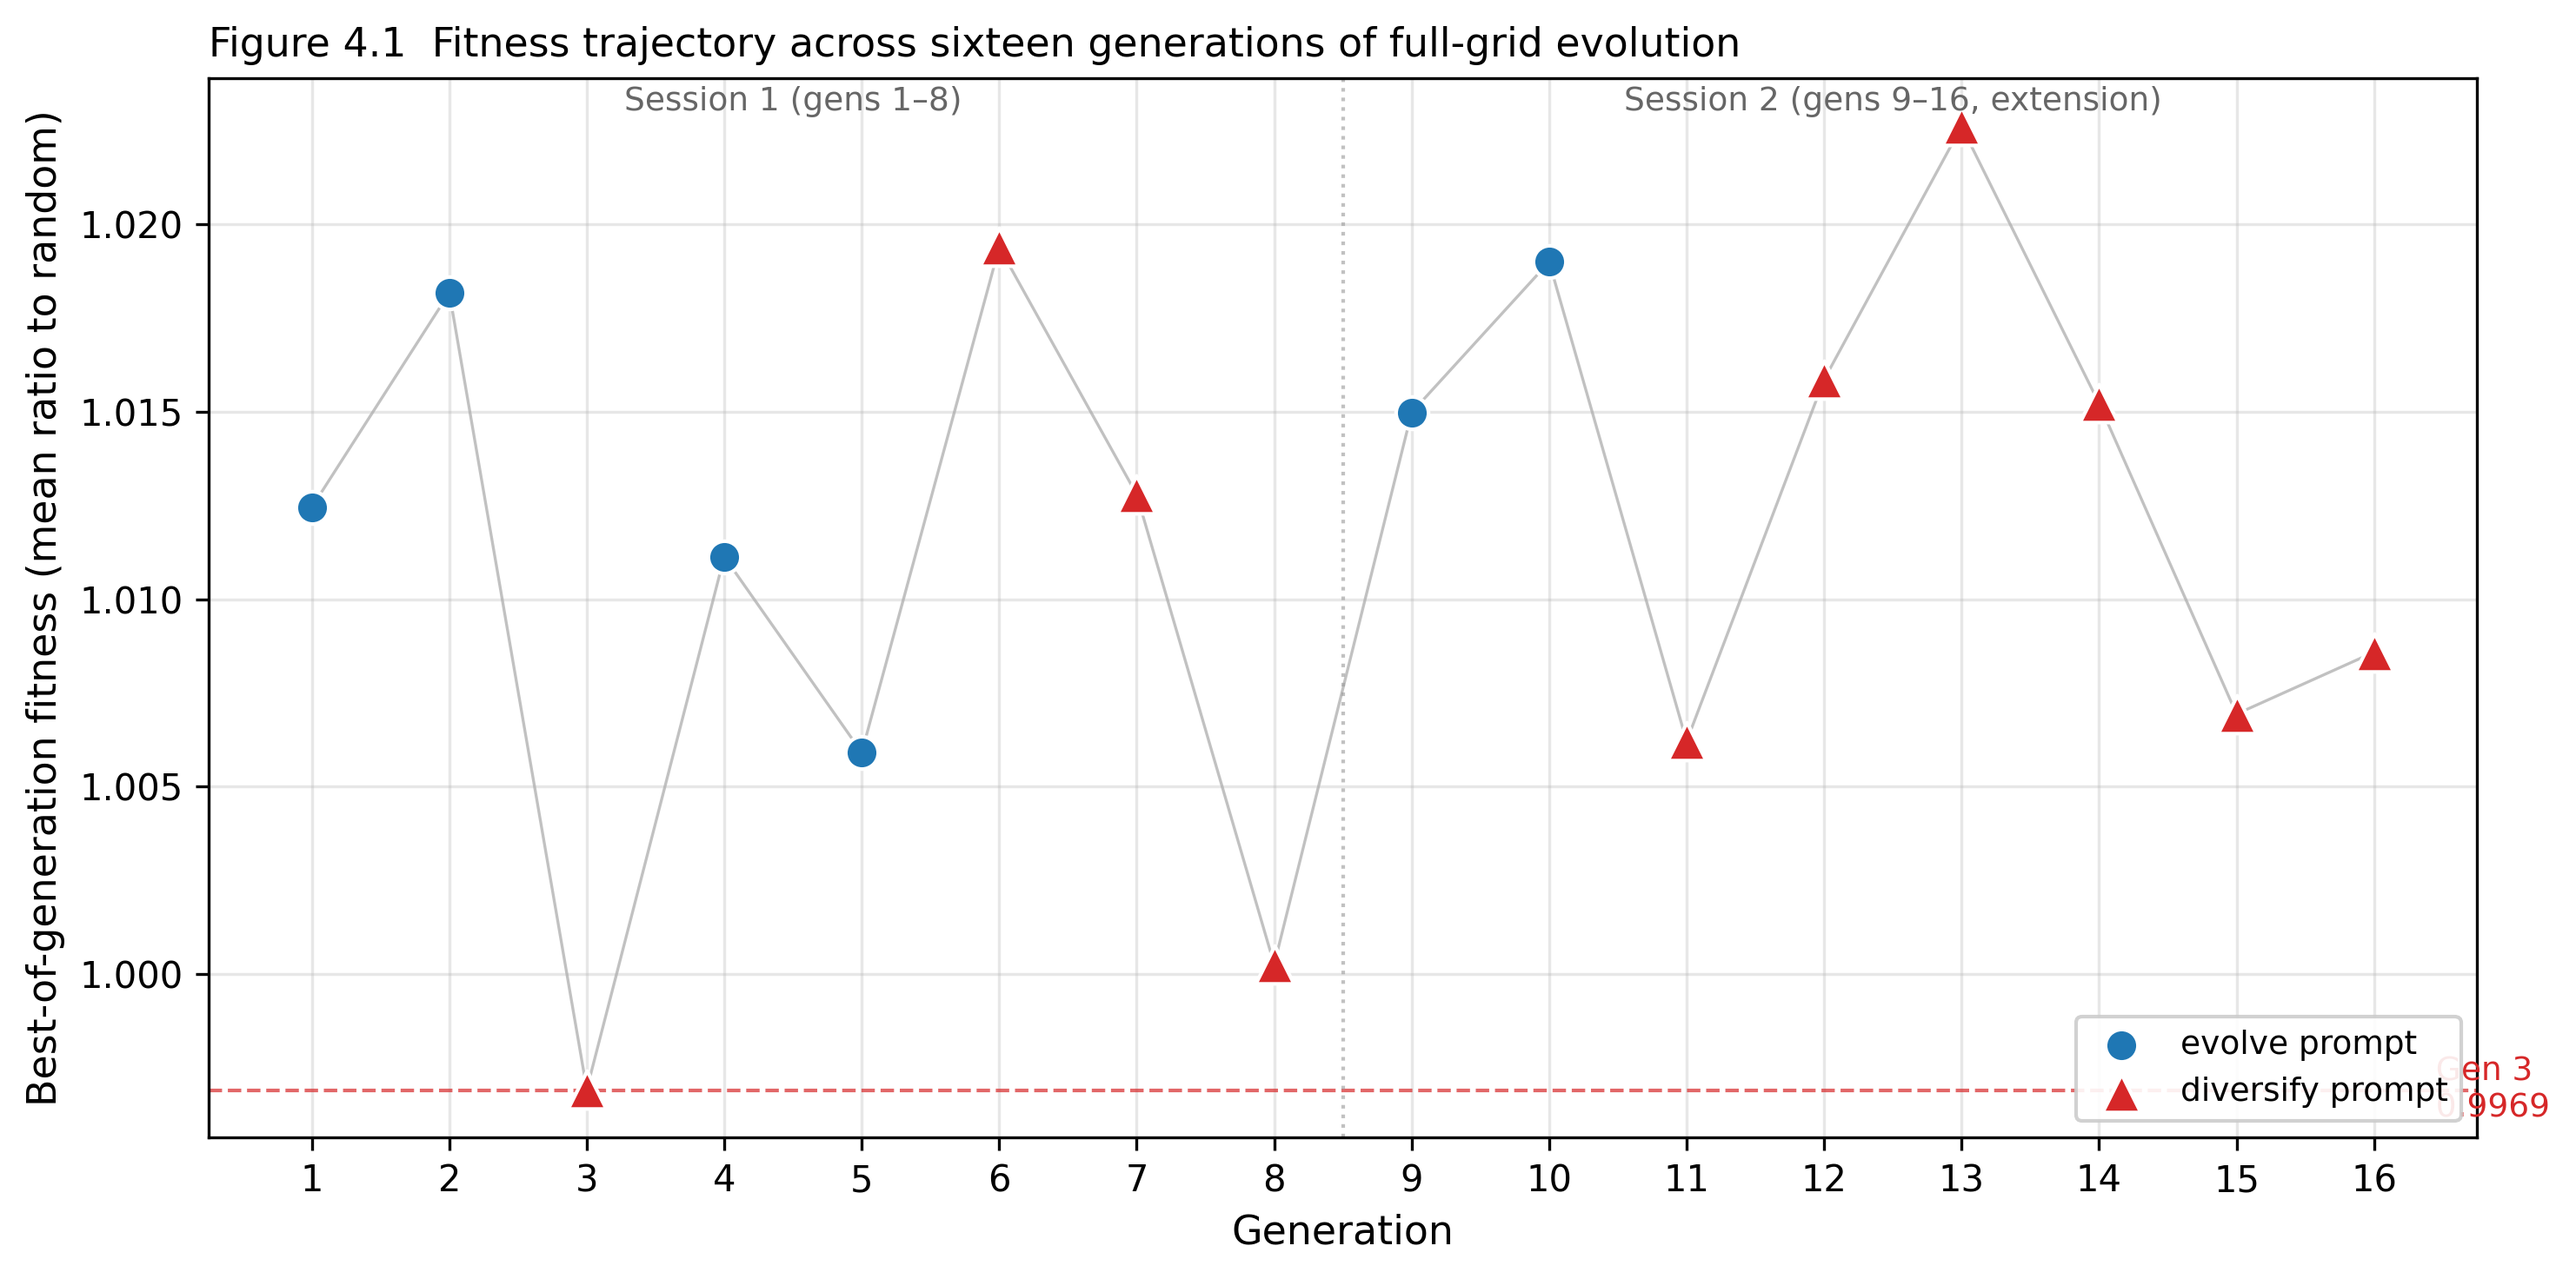
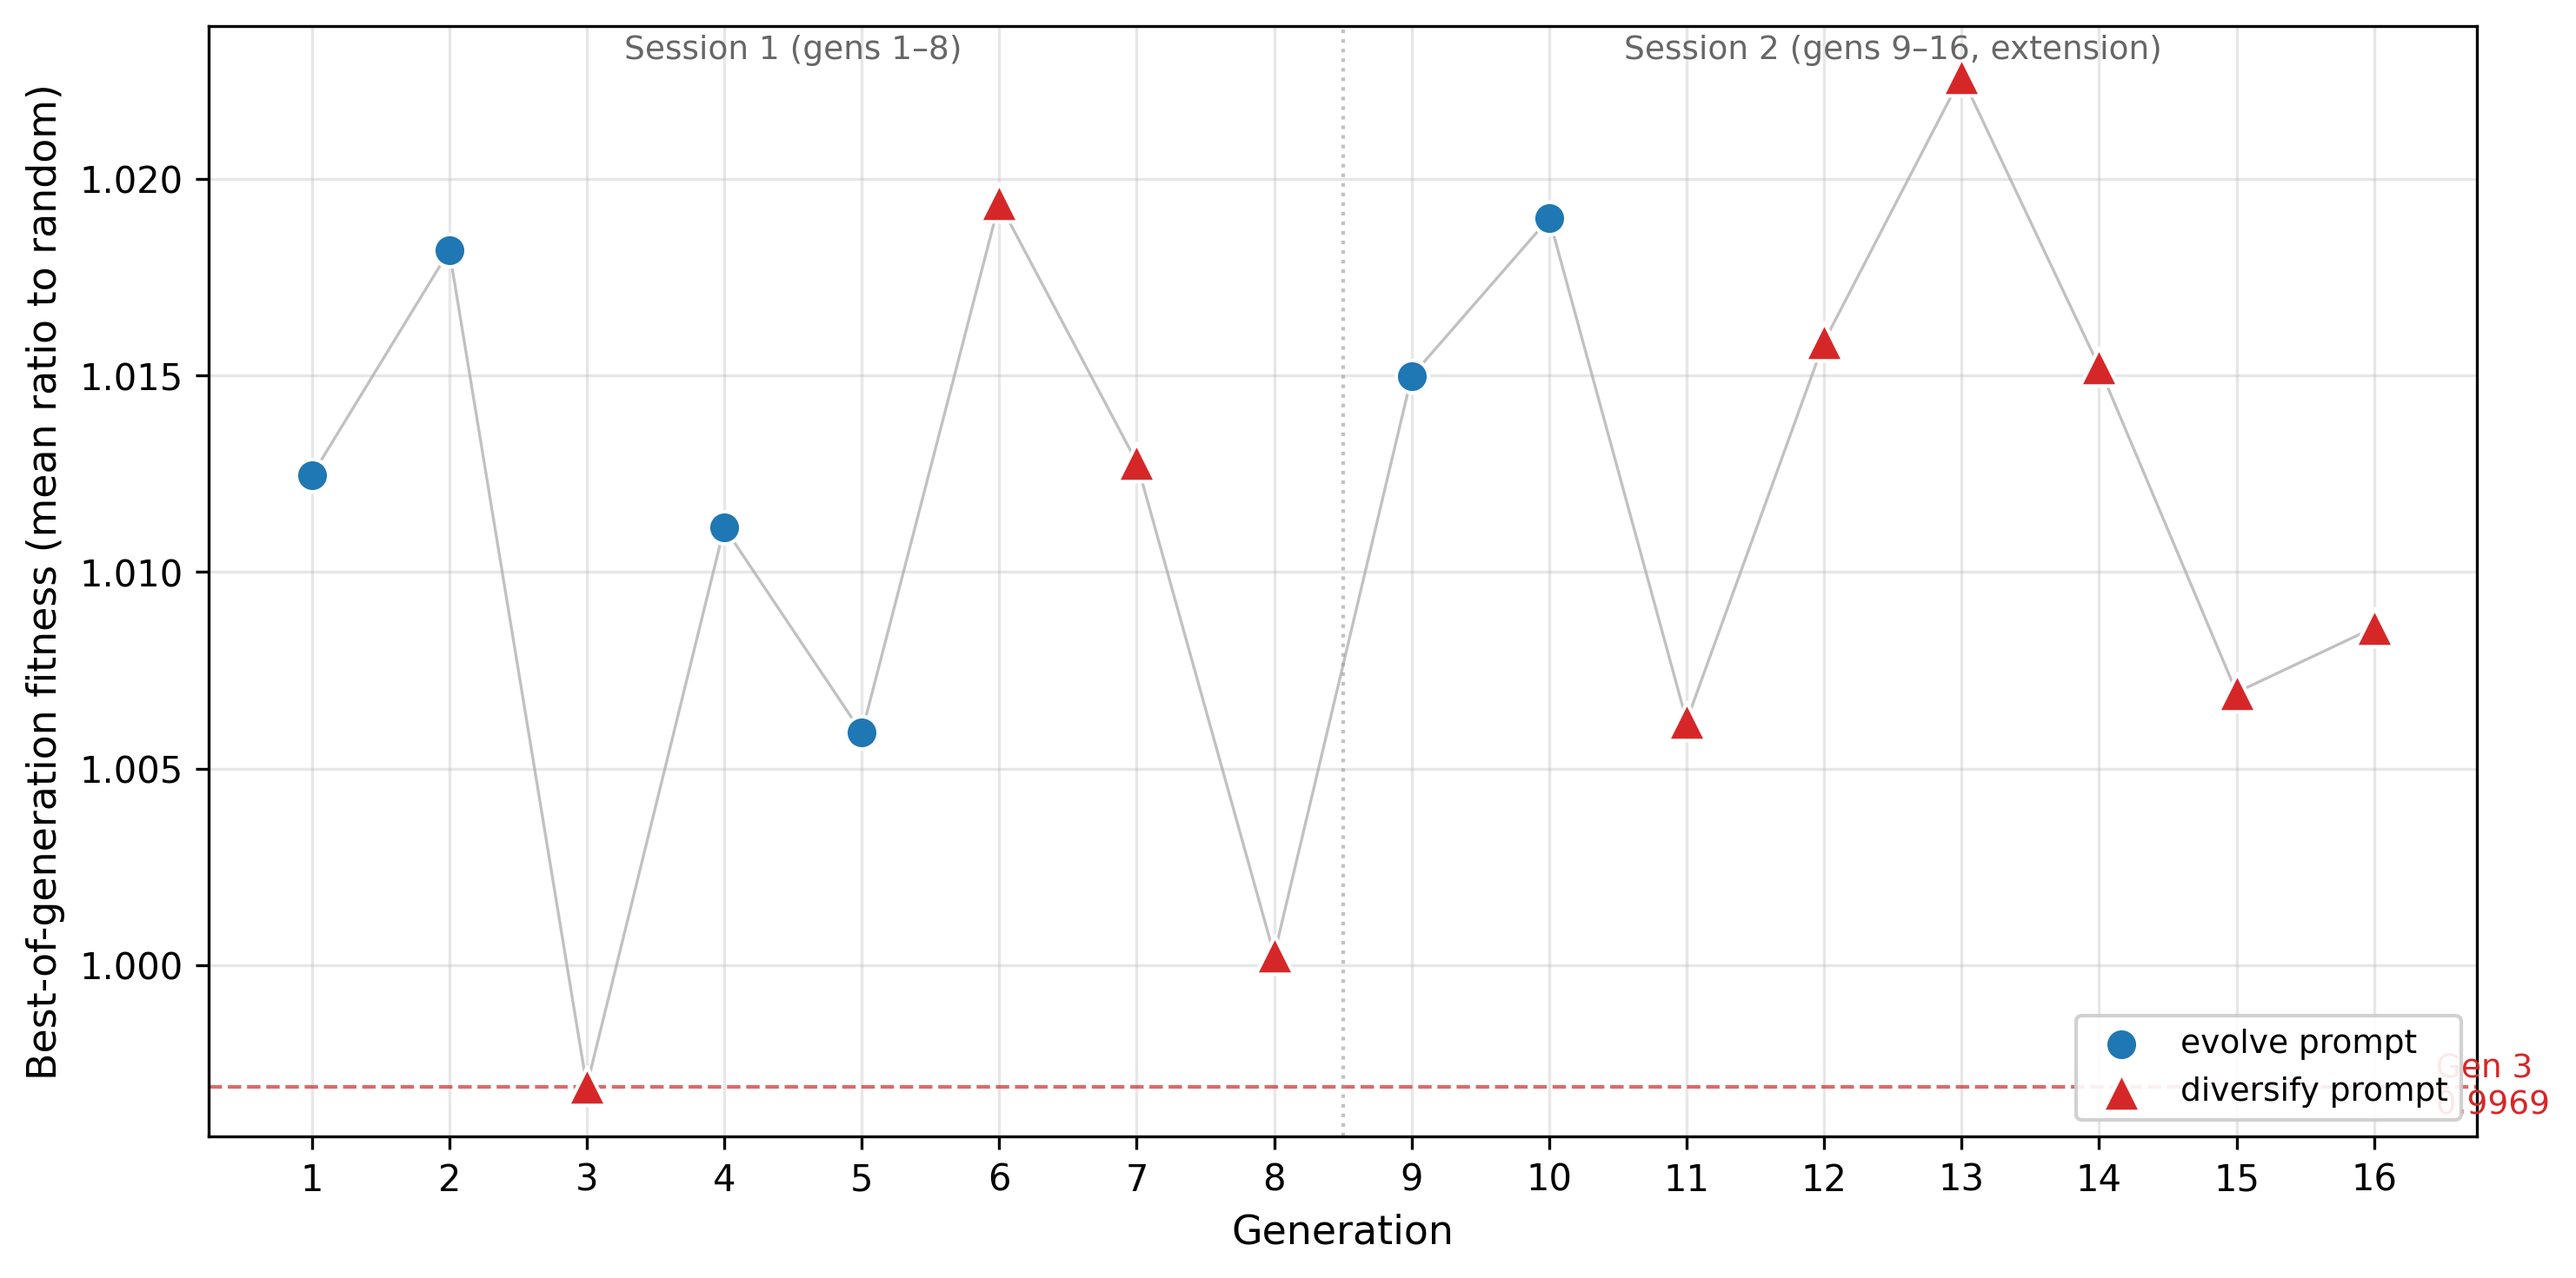
Remove redundant internal titles from Figures 4.1 and 4.2 (captions are the labels)

diff --git a/writing/figures/generate_fig4_1_trajectory.py b/writing/figures/generate_fig4_1_trajectory.py
@@ -100,8 +100,6 @@ ax.text(12.5, label_y, "Session 2 (gens 9–16, extension)",
 
 ax.set_xlabel("Generation", fontsize=11)
 ax.set_ylabel("Best-of-generation fitness (mean ratio to random)", fontsize=11)
-ax.set_title("Figure 4.1  Fitness trajectory across sixteen generations of full-grid evolution",
-             fontsize=11, loc="left")
 ax.set_xticks(range(1, 17))
 ax.legend(loc="lower right", fontsize=9, framealpha=0.9)
 ax.grid(True, alpha=0.3)

diff --git a/writing/figures/generate_fig4_2_per_instance.py b/writing/figures/generate_fig4_2_per_instance.py
@@ -52,8 +52,6 @@ ax.text(len(INSTANCES) - 0.5, 1.0, "  parity with random",
 
 ax.set_xlabel("Instance", fontsize=11)
 ax.set_ylabel("Mean ratio to same-seed random baseline (± 1 std, n=5)", fontsize=11)
-ax.set_title("Figure 4.2  Per-instance multi-seed mean ratios for the three champions",
-             fontsize=11, loc="left")
 ax.set_xticks(x)
 ax.set_xticklabels(INSTANCES)
 ax.legend(loc="upper left", fontsize=10, framealpha=0.9)
